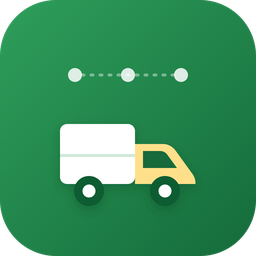
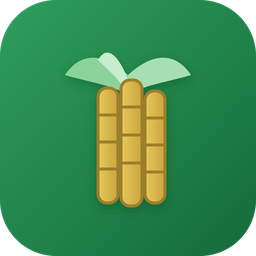
Reposition to agriculture: "Agrione - Nông nghiệp cây mía", by BSD
Đại: focus on sugarcane AGRICULTURE, not sales. Rename module, author=BSD, and
reframe listing around the Agrione sugarcane ERP ecosystem (Purchase, Inventory
[agri inputs / production materials / finished goods], Sales, HR, Accounting).
New sugarcane icon + cover; description clarifies this free module = raw-cane
multi-batch delivery-to-mill, with a CTA to the full solution.
(Functionality wording pending confirmation from the Sugar Agrione session.)

Changed region(s): [[0.2188, 0.1875, 0.7812, 0.8125]]

diff --git a/frm_sugar_sales/static/description/index.html b/frm_sugar_sales/static/description/index.html
@@ -1,66 +1,87 @@
 <section style="font-family:'Segoe UI',Roboto,Helvetica,Arial,sans-serif;color:#1f2d27;max-width:980px;margin:0 auto;line-height:1.6">
 
   <!-- ===== COVER (thumbnail) ===== -->
-  <img src="cover.png" class="img img-fluid" alt="Ban hang va Ke hoach giao hang nhieu dot" style="width:100%;height:auto;border-radius:16px;margin-bottom:28px"/>
+  <img src="cover.png" class="img img-fluid" alt="Agrione - Nong nghiep cay mia" style="width:100%;height:auto;border-radius:16px;margin-bottom:28px"/>
 
   <!-- ===== HERO ===== -->
   <div style="background:linear-gradient(135deg,#2e9e5b 0%,#146b3a 100%);border-radius:20px;padding:48px 40px;color:#fff;text-align:center">
-    <h1 style="margin:0 0 10px;font-size:34px;font-weight:800;color:#fff">B&#225;n h&#224;ng &amp; K&#7871; ho&#7841;ch giao h&#224;ng nhi&#7873;u &#273;&#7907;t</h1>
-    <p style="margin:0 auto;max-width:720px;font-size:18px;opacity:.95">
-      &#272;&#417;n h&#224;ng l&#7899;n nh&#432;ng <b>giao l&#224;m nhi&#7873;u &#273;&#7907;t</b> &#8212; m&#7895;i &#273;&#417;n c&#243; k&#7871; ho&#7841;ch giao (ng&#224;y &#183; s&#7889; l&#432;&#7907;ng
-      t&#7915;ng &#273;&#7907;t), m&#7895;i &#273;&#7907;t sinh phi&#7871;u xu&#7845;t kho th&#7853;t, theo d&#245;i &#273;&#227; giao / c&#242;n l&#7841;i. Module
-      <b>&#273;&#7897;c l&#7853;p</b>, ch&#7881; c&#7847;n Sale + Stock c&#7911;a Odoo.
+    <h1 style="margin:0 0 10px;font-size:34px;font-weight:800;color:#fff">Agrione &#8212; N&#244;ng nghi&#7879;p c&#226;y m&#237;a</h1>
+    <p style="margin:0 auto;max-width:740px;font-size:18px;opacity:.95">
+      Gi&#7843;i ph&#225;p <b>n&#244;ng nghi&#7879;p c&#226;y m&#237;a</b> tr&#234;n n&#7873;n Odoo: qu&#7843;n l&#253; n&#244;ng tr&#432;&#7901;ng, canh t&#225;c,
+      thu ho&#7841;ch v&#224; c&#7843; chu&#7895;i v&#7853;n h&#224;nh &#8212; <b>mua h&#224;ng, kho, b&#225;n h&#224;ng, nh&#226;n s&#7921;, k&#7871; to&#225;n</b>.
+      Module mi&#7877;n ph&#237; n&#224;y l&#224; ph&#7847;n <b>k&#7871; ho&#7841;ch giao m&#237;a nguy&#234;n li&#7879;u v&#7873; nh&#224; m&#225;y</b> trong v&#7909;.
     </p>
     <div style="margin-top:22px">
       <span style="display:inline-block;background:rgba(255,255,255,.18);border:1px solid rgba(255,255,255,.35);border-radius:999px;padding:7px 16px;margin:4px;font-size:14px">&#10004; Mi&#7877;n ph&#237; &amp; m&#227; ngu&#7891;n m&#7903; (LGPL-3)</span>
-      <span style="display:inline-block;background:rgba(255,255,255,.18);border:1px solid rgba(255,255,255,.35);border-radius:999px;padding:7px 16px;margin:4px;font-size:14px">&#10004; Ch&#7881; c&#7847;n <code style="color:#fff">Sale</code> + <code style="color:#fff">Stock</code></span>
-      <span style="display:inline-block;background:rgba(255,255,255,.18);border:1px solid rgba(255,255,255,.35);border-radius:999px;padding:7px 16px;margin:4px;font-size:14px">&#10004; Sinh phi&#7871;u kho t&#7921; &#273;&#7897;ng</span>
+      <span style="display:inline-block;background:rgba(255,255,255,.18);border:1px solid rgba(255,255,255,.35);border-radius:999px;padding:7px 16px;margin:4px;font-size:14px">&#10004; Chuy&#234;n ng&#224;nh m&#237;a Vi&#7879;t Nam</span>
+      <span style="display:inline-block;background:rgba(255,255,255,.18);border:1px solid rgba(255,255,255,.35);border-radius:999px;padding:7px 16px;margin:4px;font-size:14px">&#10004; C&#224;i &#273;&#7897;c l&#7853;p, d&#249;ng ngay</span>
     </div>
   </div>
 
-  <!-- ===== WHY ===== -->
+  <!-- ===== ECOSYSTEM ===== -->
   <div style="margin:40px 0 8px">
-    <h2 style="font-size:24px;font-weight:800;color:#146b3a;margin:0 0 8px">D&#224;nh cho ai?</h2>
-    <p style="font-size:16px;margin:0">
-      Doanh nghi&#7879;p b&#225;n <b>&#273;&#417;n l&#7899;n giao r&#7843;i nhi&#7873;u chuy&#7871;n</b> trong nhi&#7873;u tu&#7847;n &#8212; &#273;i&#7875;n h&#236;nh
-      ng&#224;nh &#273;&#432;&#7901;ng, n&#244;ng s&#7843;n, v&#7853;t li&#7879;u, ph&#226;n b&#243;n (b&#225;n 1.000 t&#7845;n nh&#432;ng giao l&#224;m nhi&#7873;u &#273;&#7907;t).
-      &#272;&#417;n b&#225;n ti&#234;u chu&#7849;n c&#7911;a Odoo ch&#7881; c&#243; m&#7897;t l&#7847;n giao; module n&#224;y th&#234;m <b>l&#7883;ch giao nhi&#7873;u &#273;&#7907;t</b>
-      ngay tr&#234;n &#273;&#417;n v&#224; t&#7921; sinh phi&#7871;u kho cho t&#7915;ng &#273;&#7907;t.
-    </p>
+    <h2 style="font-size:24px;font-weight:800;color:#146b3a;margin:0 0 6px">H&#7879; sinh th&#225;i ERP c&#226;y m&#237;a Agrione</h2>
+    <p style="font-size:16px;margin:0 0 18px">M&#7897;t n&#7873;n t&#7843;ng th&#7889;ng nh&#7845;t cho to&#224;n b&#7897; chu&#7895;i gi&#225; tr&#7883; c&#226;y m&#237;a &#8212; t&#7915; c&#225;nh &#273;&#7891;ng t&#7899;i nh&#224; m&#225;y.</p>
+  </div>
+  <div style="display:grid;grid-template-columns:repeat(2,1fr);gap:18px;margin:0 0 24px">
+    <div style="border:1px solid #e2ece6;border-radius:14px;padding:22px">
+      <div style="font-size:26px">&#128722;</div>
+      <h3 style="margin:8px 0 6px;font-size:18px;color:#146b3a">Mua h&#224;ng</h3>
+      <p style="margin:0;font-size:15px">V&#7853;t t&#432; n&#244;ng nghi&#7879;p (gi&#7889;ng, ph&#226;n, thu&#7889;c) v&#224; nguy&#234;n v&#7853;t li&#7879;u ph&#7909;c v&#7909; s&#7843;n xu&#7845;t.</p>
+    </div>
+    <div style="border:1px solid #e2ece6;border-radius:14px;padding:22px">
+      <div style="font-size:26px">&#127980;</div>
+      <h3 style="margin:8px 0 6px;font-size:18px;color:#146b3a">Kho</h3>
+      <p style="margin:0;font-size:15px">Qu&#7843;n l&#253; ba nh&#243;m: <b>v&#7853;t t&#432; n&#244;ng nghi&#7879;p</b> &#183; <b>v&#7853;t li&#7879;u s&#7843;n xu&#7845;t</b> &#183; <b>th&#224;nh ph&#7849;m</b> (&#273;&#432;&#7901;ng).</p>
+    </div>
+    <div style="border:1px solid #e2ece6;border-radius:14px;padding:22px">
+      <div style="font-size:26px">&#128666;</div>
+      <h3 style="margin:8px 0 6px;font-size:18px;color:#146b3a">B&#225;n h&#224;ng</h3>
+      <p style="margin:0;font-size:15px">Giao m&#237;a nguy&#234;n li&#7879;u / th&#224;nh ph&#7849;m <b>nhi&#7873;u &#273;&#7907;t theo v&#7909;</b> &#8212; ch&#237;nh l&#224; module mi&#7877;n ph&#237; n&#224;y.</p>
+    </div>
+    <div style="border:1px solid #e2ece6;border-radius:14px;padding:22px">
+      <div style="font-size:26px">&#128101;</div>
+      <h3 style="margin:8px 0 6px;font-size:18px;color:#146b3a">Nh&#226;n s&#7921;</h3>
+      <p style="margin:0;font-size:15px">Ch&#7845;m c&#244;ng, kho&#225;n vi&#7879;c n&#244;ng tr&#432;&#7901;ng theo khu / &#273;&#7897;i s&#7843;n xu&#7845;t.</p>
+    </div>
+    <div style="border:1px solid #e2ece6;border-radius:14px;padding:22px">
+      <div style="font-size:26px">&#128210;</div>
+      <h3 style="margin:8px 0 6px;font-size:18px;color:#146b3a">K&#7871; to&#225;n</h3>
+      <p style="margin:0;font-size:15px">H&#7841;ch to&#225;n m&#249;a v&#7909;, t&#7853;p h&#7907;p chi ph&#237; v&#224; t&#237;nh gi&#225; th&#224;nh theo n&#244;ng tr&#432;&#7901;ng.</p>
+    </div>
+    <div style="border:1px solid #e2ece6;border-radius:14px;padding:22px">
+      <div style="font-size:26px">&#127793;</div>
+      <h3 style="margin:8px 0 6px;font-size:18px;color:#146b3a">Canh t&#225;c &amp; thu ho&#7841;ch</h3>
+      <p style="margin:0;font-size:15px">N&#244;ng tr&#432;&#7901;ng &#183; gi&#7889;ng &#183; quy tr&#236;nh canh t&#225;c &#183; nh&#7853;t k&#253; &#273;&#7891;ng ru&#7897;ng &#183; thu ho&#7841;ch &amp; c&#226;n &#273;o.</p>
+    </div>
   </div>
 
-  <!-- ===== FEATURES ===== -->
-  <div style="display:grid;grid-template-columns:repeat(2,1fr);gap:18px;margin:24px 0">
-    <div style="border:1px solid #e2ece6;border-radius:14px;padding:22px">
-      <div style="font-size:26px">&#128467;&#65039;</div>
-      <h3 style="margin:8px 0 6px;font-size:18px;color:#146b3a">K&#7871; ho&#7841;ch giao theo &#273;&#7907;t</h3>
-      <p style="margin:0;font-size:15px">Th&#234;m c&#225;c &#273;&#7907;t giao (s&#7843;n ph&#7849;m &#183; s&#7889; l&#432;&#7907;ng &#183; ng&#224;y h&#7865;n) ngay trong m&#7897;t tab c&#7911;a &#273;&#417;n b&#225;n h&#224;ng.</p>
-    </div>
-    <div style="border:1px solid #e2ece6;border-radius:14px;padding:22px">
-      <div style="font-size:26px">&#128230;</div>
-      <h3 style="margin:8px 0 6px;font-size:18px;color:#146b3a">Sinh phi&#7871;u giao th&#7853;t</h3>
-      <p style="margin:0;font-size:15px">B&#7845;m <i>T&#7841;o phi&#7871;u giao</i> &#8594; phi&#7871;u xu&#7845;t kho &#273;&#250;ng s&#7889; l&#432;&#7907;ng &amp; ng&#224;y; ho&#7863;c <i>T&#7841;o t&#7845;t c&#7843;</i> m&#7897;t l&#7847;n.</p>
-    </div>
-    <div style="border:1px solid #e2ece6;border-radius:14px;padding:22px">
-      <div style="font-size:26px">&#128202;</div>
-      <h3 style="margin:8px 0 6px;font-size:18px;color:#146b3a">Theo d&#245;i ti&#7871;n &#273;&#7897;</h3>
-      <p style="margin:0;font-size:15px">&#272;&#227; giao / c&#242;n l&#7841;i / % ho&#224;n t&#7845;t, c&#7853;p nh&#7853;t theo phi&#7871;u kho th&#7921;c t&#7871; c&#7911;a t&#7915;ng &#273;&#7907;t.</p>
-    </div>
-    <div style="border:1px solid #e2ece6;border-radius:14px;padding:22px">
-      <div style="font-size:26px">&#129534;</div>
-      <h3 style="margin:8px 0 6px;font-size:18px;color:#146b3a">M&#7851;u in s&#7861;n</h3>
-      <p style="margin:0;font-size:15px">H&#7907;p &#273;&#7891;ng b&#225;n h&#224;ng &amp; Phi&#7871;u giao h&#224;ng in tr&#7921;c ti&#7871;p t&#7915; &#273;&#417;n &#8212; ti&#7871;ng Vi&#7879;t, chu&#7849;n nghi&#7879;p v&#7909;.</p>
-    </div>
-  </div>
-
-  <!-- ===== STATES ===== -->
+  <!-- ===== FREE MODULE ===== -->
   <div style="background:#f4faf6;border-radius:16px;padding:28px 32px;margin:28px 0">
-    <h2 style="font-size:22px;font-weight:800;color:#146b3a;margin:0 0 14px">Tr&#7841;ng th&#225;i t&#7915;ng &#273;&#7907;t giao</h2>
-    <p style="margin:0;font-size:16px">
-      <b>Ch&#7901; t&#7841;o phi&#7871;u</b> &#8594; <b>&#272;&#227; t&#7841;o phi&#7871;u</b> &#8594; <b>Giao m&#7897;t ph&#7847;n</b> &#8594; <b>&#272;&#227; giao &#273;&#7911;</b> &#8212;
-      t&#7921; c&#7853;p nh&#7853;t theo tr&#7841;ng th&#225;i phi&#7871;u xu&#7845;t kho. Kh&#244;ng s&#7917;a d&#7919; li&#7879;u Sale/Stock g&#7889;c, an to&#224;n
-      c&#224;i chung v&#7899;i m&#7885;i c&#7845;u h&#236;nh c&#243; s&#7861;n.
-    </p>
+    <h2 style="font-size:22px;font-weight:800;color:#146b3a;margin:0 0 6px">Module mi&#7877;n ph&#237; n&#224;y g&#7891;m</h2>
+    <p style="font-size:15px;margin:0 0 16px;color:#5a6b62">K&#7871; ho&#7841;ch giao m&#237;a nguy&#234;n li&#7879;u v&#7873; nh&#224; m&#225;y nhi&#7873;u &#273;&#7907;t &#8212; ch&#7881; c&#7847;n Sale + Stock c&#7911;a Odoo.</p>
+    <div style="display:grid;grid-template-columns:repeat(3,1fr);gap:14px">
+      <div style="background:#fff;border:1px solid #e2ece6;border-radius:12px;padding:18px">
+        <h3 style="margin:0 0 6px;font-size:16px;color:#146b3a">&#128467;&#65039; K&#7871; ho&#7841;ch giao theo &#273;&#7907;t</h3>
+        <p style="margin:0;font-size:14px">M&#7895;i &#273;&#417;n th&#234;m nhi&#7873;u &#273;&#7907;t giao (s&#7843;n ph&#7849;m &#183; s&#7889; l&#432;&#7907;ng &#183; ng&#224;y) &#8212; v&#7909; m&#237;a giao l&#224;m nhi&#7873;u chuy&#7871;n trong nhi&#7873;u tu&#7847;n.</p>
+      </div>
+      <div style="background:#fff;border:1px solid #e2ece6;border-radius:12px;padding:18px">
+        <h3 style="margin:0 0 6px;font-size:16px;color:#146b3a">&#128230; Sinh phi&#7871;u kho t&#7921; &#273;&#7897;ng</h3>
+        <p style="margin:0;font-size:14px">M&#7895;i &#273;&#7907;t t&#7841;o phi&#7871;u xu&#7845;t kho th&#7853;t, &#273;&#250;ng s&#7889; l&#432;&#7907;ng &amp; ng&#224;y.</p>
+      </div>
+      <div style="background:#fff;border:1px solid #e2ece6;border-radius:12px;padding:18px">
+        <h3 style="margin:0 0 6px;font-size:16px;color:#146b3a">&#128202; Theo d&#245;i ti&#7871;n &#273;&#7897;</h3>
+        <p style="margin:0;font-size:14px">&#272;&#227; giao / c&#242;n l&#7841;i / % ho&#224;n t&#7845;t theo phi&#7871;u kho th&#7921;c t&#7871;.</p>
+      </div>
+    </div>
+  </div>
+
+  <!-- ===== FULL SOLUTION CTA ===== -->
+  <div style="border:2px dashed #b7d8c4;border-radius:16px;padding:26px 30px;margin:28px 0;text-align:center">
+    <h2 style="font-size:20px;font-weight:800;color:#146b3a;margin:0 0 8px">C&#7847;n b&#7897; gi&#7843;i ph&#225;p m&#237;a &#273;&#7847;y &#273;&#7911;?</h2>
+    <p style="margin:0 0 6px;font-size:15px">Qu&#7843;n l&#253; n&#244;ng tr&#432;&#7901;ng/khu/&#273;&#7897;i, gi&#7889;ng &amp; canh t&#225;c, thu ho&#7841;ch &amp; &#273;&#7897;i &#273;&#7889;n, &#273;&#7847;u t&#432; n&#244;ng d&#226;n v&#7879; tinh,
+      truy xu&#7845;t, nh&#224; m&#225;y &#273;&#432;&#7901;ng... &#8212; tri&#7875;n khai theo y&#234;u c&#7847;u.</p>
+    <p style="margin:0;font-size:15px"><b>Li&#234;n h&#7879; Agrione:</b> <a href="https://agrione.vn" style="color:#146b3a;font-weight:700;text-decoration:none">agrione.vn</a></p>
   </div>
 
   <!-- ===== TECH ===== -->
@@ -68,7 +89,7 @@
     <h2 style="font-size:22px;font-weight:800;color:#146b3a;margin:0 0 12px">Th&#244;ng tin k&#7929; thu&#7853;t</h2>
     <table style="width:100%;border-collapse:collapse;font-size:15px">
       <tr style="border-bottom:1px solid #e2ece6"><td style="padding:10px 8px;width:220px;color:#5a6b62">Phi&#234;n b&#7843;n Odoo</td><td style="padding:10px 8px"><b>19.0</b> (Community &amp; Enterprise)</td></tr>
-      <tr style="border-bottom:1px solid #e2ece6"><td style="padding:10px 8px;color:#5a6b62">Ph&#7909; thu&#7897;c</td><td style="padding:10px 8px"><code>sale_management</code>, <code>stock</code> &#8212; chu&#7849;n Odoo, kh&#244;ng c&#7847;n module ngo&#224;i</td></tr>
+      <tr style="border-bottom:1px solid #e2ece6"><td style="padding:10px 8px;color:#5a6b62">Ph&#7909; thu&#7897;c</td><td style="padding:10px 8px"><code>sale_management</code>, <code>stock</code> &#8212; chu&#7849;n Odoo</td></tr>
       <tr style="border-bottom:1px solid #e2ece6"><td style="padding:10px 8px;color:#5a6b62">Gi&#7845;y ph&#233;p</td><td style="padding:10px 8px"><b>LGPL-3</b></td></tr>
       <tr><td style="padding:10px 8px;color:#5a6b62">Model ch&#237;nh</td><td style="padding:10px 8px"><code>frm.sale.delivery.schedule</code>, m&#7903; r&#7897;ng <code>sale.order</code></td></tr>
     </table>
@@ -76,9 +97,9 @@
 
   <!-- ===== ABOUT ===== -->
   <div style="border-top:2px solid #e2ece6;margin-top:32px;padding-top:24px;text-align:center">
-    <h3 style="font-size:18px;color:#146b3a;margin:0 0 6px">Ph&#225;t tri&#7875;n b&#7903;i Agrione (BSD)</h3>
+    <h3 style="font-size:18px;color:#146b3a;margin:0 0 6px">Ph&#225;t tri&#7875;n b&#7903;i BSD</h3>
     <p style="margin:0;font-size:15px;color:#5a6b62">
-      Gi&#7843;i ph&#225;p Odoo cho doanh nghi&#7879;p Vi&#7879;t Nam &#8212; n&#244;ng nghi&#7879;p, b&#225;n h&#224;ng, chu&#7895;i cung &#7913;ng, ERP ng&#224;nh.
+      Agrione &#8212; n&#7873;n t&#7843;ng ERP n&#244;ng nghi&#7879;p Vi&#7879;t Nam (m&#237;a, l&#250;a, s&#7847;u ri&#234;ng, d&#7915;a, c&#224; ph&#234;, chu&#7889;i...).
       <br><a href="https://agrione.vn" style="color:#146b3a;font-weight:700;text-decoration:none">agrione.vn</a>
       &nbsp;&#183;&nbsp;
       <a href="https://bsdinsight.com" style="color:#146b3a;font-weight:700;text-decoration:none">bsdinsight.com</a>

diff --git a/frm_sugar_sales/__manifest__.py b/frm_sugar_sales/__manifest__.py
@@ -1,32 +1,40 @@
 # -*- coding: utf-8 -*-
 {
-    'name': 'Agrione – Bán hàng & Kế hoạch giao hàng',
-    'version': '19.0.2.0.0',
-    'summary': 'Đơn hàng lớn giao nhiều đợt: mỗi đơn có kế hoạch giao (ngày + số '
-               'lượng từng đợt), mỗi đợt sinh phiếu giao thật + theo dõi đã giao / '
-               'còn lại. Module ĐỘC LẬP — chỉ cần Sale + Stock.',
+    'name': 'Agrione - Nông nghiệp cây mía',
+    'version': '19.0.2.1.0',
+    'summary': 'Nông nghiệp cây mía Agrione — module miễn phí lập kế hoạch giao mía '
+               'nguyên liệu về nhà máy nhiều đợt trong vụ (nền Sale + Stock). Thuộc hệ '
+               'sinh thái ERP mía: mua hàng, kho (vật tư nông nghiệp / vật liệu sản xuất '
+               '/ thành phẩm), bán hàng, nhân sự, kế toán.',
     'description': """
-Agrione – Bán hàng & Kế hoạch giao hàng
-=======================================
-Module **độc lập** (chỉ phụ thuộc Sale + Stock của Odoo) cho bài toán bán hàng
-đơn lớn nhưng **giao nhiều đợt** — điển hình ngành đường (bán 1.000 tấn nhưng
-giao làm nhiều chuyến trong nhiều tuần).
+Agrione - Nông nghiệp cây mía
+=============================
+Giải pháp **nông nghiệp cây mía** của Agrione trên nền Odoo. Module miễn phí này là
+phần **kế hoạch giao mía nguyên liệu về nhà máy nhiều đợt** trong vụ thu hoạch —
+một mắt xích của hệ sinh thái ERP mía Agrione.
 
-* **Kế hoạch giao hàng trên từng đơn** — thêm các đợt giao (sản phẩm · số lượng
-  · ngày hẹn) ngay trong tab của đơn bán hàng.
-* **Sinh phiếu giao thật cho từng đợt** — bấm *Tạo phiếu giao* → phiếu xuất kho
-  → khách, đúng số lượng & ngày; hoặc *Tạo tất cả phiếu giao* một lần.
-* **Theo dõi tiến độ** — đã giao / còn lại / % hoàn tất, cập nhật theo phiếu kho
-  thực tế; mỗi đợt có trạng thái Chờ tạo phiếu / Đã tạo phiếu / Giao một phần /
-  Đã giao đủ.
+Hệ sinh thái ERP mía Agrione
+----------------------------
+* **Mua hàng** — vật tư nông nghiệp (giống, phân, thuốc) và nguyên vật liệu sản xuất.
+* **Kho** — vật tư nông nghiệp · vật liệu sản xuất · thành phẩm (đường).
+* **Bán hàng** — giao mía nguyên liệu / thành phẩm nhiều đợt theo vụ.
+* **Nhân sự** — chấm công, khoán việc nông trường.
+* **Kế toán** — hạch toán mùa vụ, giá thành.
 
-Không phụ thuộc module nào khác của Agrione — dùng chung nền Odoo Community.
+Module miễn phí này gồm
+-----------------------
+* **Kế hoạch giao theo đợt** — thêm các đợt giao (sản phẩm · số lượng · ngày) ngay
+  trên đơn; điển hình vụ mía: giao mía về nhà máy làm nhiều chuyến trong nhiều tuần.
+* **Sinh phiếu giao thật cho từng đợt** — tạo phiếu xuất kho đúng số lượng & ngày.
+* **Theo dõi tiến độ** — đã giao / còn lại / % hoàn tất theo phiếu kho thực tế.
+
+Chỉ phụ thuộc Sale + Stock của Odoo — cài độc lập, dùng ngay.
 """,
     'category': 'Sales',
-    'author': 'Agrione (BSD)',
+    'author': 'BSD',
     'license': 'LGPL-3',
     'website': 'https://agrione.vn',
-    'maintainer': 'Agrione (BSD)',
+    'maintainer': 'BSD',
     'images': ['static/description/cover.png'],
     'depends': ['sale_management', 'stock'],
     'data': [

diff --git a/README.md b/README.md
@@ -1,19 +1,23 @@
-# Agrione – Bán hàng & Kế hoạch giao hàng nhiều đợt (`frm_sugar_sales`)
+# Agrione - Nông nghiệp cây mía (`frm_sugar_sales`)
 
-Module Odoo **19.0** cho bài toán bán **đơn hàng lớn nhưng giao làm nhiều đợt** —
-điển hình ngành đường, nông sản, vật liệu, phân bón (bán 1.000 tấn, giao rải nhiều
-chuyến trong nhiều tuần).
+Giải pháp **nông nghiệp cây mía** của Agrione trên nền **Odoo 19.0**. Module **miễn phí**
+này là phần **kế hoạch giao mía nguyên liệu về nhà máy nhiều đợt** trong vụ — một mắt xích
+của hệ sinh thái ERP cây mía Agrione.
 
 [![License: LGPL-3](https://img.shields.io/badge/license-LGPL--3-blue.svg)](LICENSE)
 ![Odoo 19.0](https://img.shields.io/badge/Odoo-19.0-714B67.svg)
 
-## Tính năng
+## Hệ sinh thái ERP cây mía Agrione
 
-- **Kế hoạch giao theo đợt** — thêm các đợt giao (sản phẩm · số lượng · ngày hẹn) ngay trong một tab của đơn bán hàng.
-- **Sinh phiếu giao thật** — *Tạo phiếu giao* → phiếu xuất kho đúng số lượng & ngày; hoặc *Tạo tất cả* một lần.
-- **Theo dõi tiến độ** — đã giao / còn lại / % hoàn tất, cập nhật theo phiếu kho thực tế.
-- **Trạng thái từng đợt** — Chờ tạo phiếu → Đã tạo phiếu → Giao một phần → Đã giao đủ.
-- **Mẫu in** — Hợp đồng bán hàng & Phiếu giao hàng (tiếng Việt).
+Mua hàng · Kho (vật tư nông nghiệp / vật liệu sản xuất / thành phẩm) · Bán hàng ·
+Nhân sự · Kế toán · Canh tác & thu hoạch. Bộ giải pháp đầy đủ triển khai theo yêu cầu —
+liên hệ [agrione.vn](https://agrione.vn).
+
+## Module miễn phí này gồm
+
+- **Kế hoạch giao theo đợt** — mỗi đơn thêm nhiều đợt giao (sản phẩm · số lượng · ngày); vụ mía giao làm nhiều chuyến trong nhiều tuần.
+- **Sinh phiếu kho tự động** — mỗi đợt tạo phiếu xuất kho thật, đúng số lượng & ngày.
+- **Theo dõi tiến độ** — đã giao / còn lại / % hoàn tất theo phiếu kho thực tế.
 
 ## Cài đặt
 
@@ -21,7 +25,7 @@ chuyến trong nhiều tuần).
 odoo -i frm_sugar_sales -d <database>
 ```
 
-**Module độc lập** — chỉ phụ thuộc `sale_management` + `stock` (chuẩn Odoo), không cần module ngoài nào.
+Chỉ phụ thuộc `sale_management` + `stock` (chuẩn Odoo) — cài độc lập, dùng ngay.
 
 ## Kỹ thuật
 
@@ -38,4 +42,4 @@ LGPL-3 — xem [LICENSE](LICENSE).
 
 ---
 
-Phát triển bởi **Agrione (BSD)** · [agrione.vn](https://agrione.vn) · [bsdinsight.com](https://bsdinsight.com)
+Phát triển bởi **BSD** · [agrione.vn](https://agrione.vn) · [bsdinsight.com](https://bsdinsight.com)

diff --git a/frm_sugar_sales/README.md b/frm_sugar_sales/README.md
@@ -1,19 +1,23 @@
-# Agrione – Bán hàng & Kế hoạch giao hàng nhiều đợt (`frm_sugar_sales`)
+# Agrione - Nông nghiệp cây mía (`frm_sugar_sales`)
 
-Module Odoo **19.0** cho bài toán bán **đơn hàng lớn nhưng giao làm nhiều đợt** —
-điển hình ngành đường, nông sản, vật liệu, phân bón (bán 1.000 tấn, giao rải nhiều
-chuyến trong nhiều tuần).
+Giải pháp **nông nghiệp cây mía** của Agrione trên nền **Odoo 19.0**. Module **miễn phí**
+này là phần **kế hoạch giao mía nguyên liệu về nhà máy nhiều đợt** trong vụ — một mắt xích
+của hệ sinh thái ERP cây mía Agrione.
 
 [![License: LGPL-3](https://img.shields.io/badge/license-LGPL--3-blue.svg)](LICENSE)
 ![Odoo 19.0](https://img.shields.io/badge/Odoo-19.0-714B67.svg)
 
-## Tính năng
+## Hệ sinh thái ERP cây mía Agrione
 
-- **Kế hoạch giao theo đợt** — thêm các đợt giao (sản phẩm · số lượng · ngày hẹn) ngay trong một tab của đơn bán hàng.
-- **Sinh phiếu giao thật** — *Tạo phiếu giao* → phiếu xuất kho đúng số lượng & ngày; hoặc *Tạo tất cả* một lần.
-- **Theo dõi tiến độ** — đã giao / còn lại / % hoàn tất, cập nhật theo phiếu kho thực tế.
-- **Trạng thái từng đợt** — Chờ tạo phiếu → Đã tạo phiếu → Giao một phần → Đã giao đủ.
-- **Mẫu in** — Hợp đồng bán hàng & Phiếu giao hàng (tiếng Việt).
+Mua hàng · Kho (vật tư nông nghiệp / vật liệu sản xuất / thành phẩm) · Bán hàng ·
+Nhân sự · Kế toán · Canh tác & thu hoạch. Bộ giải pháp đầy đủ triển khai theo yêu cầu —
+liên hệ [agrione.vn](https://agrione.vn).
+
+## Module miễn phí này gồm
+
+- **Kế hoạch giao theo đợt** — mỗi đơn thêm nhiều đợt giao (sản phẩm · số lượng · ngày); vụ mía giao làm nhiều chuyến trong nhiều tuần.
+- **Sinh phiếu kho tự động** — mỗi đợt tạo phiếu xuất kho thật, đúng số lượng & ngày.
+- **Theo dõi tiến độ** — đã giao / còn lại / % hoàn tất theo phiếu kho thực tế.
 
 ## Cài đặt
 
@@ -21,7 +25,7 @@ chuyến trong nhiều tuần).
 odoo -i frm_sugar_sales -d <database>
 ```
 
-**Module độc lập** — chỉ phụ thuộc `sale_management` + `stock` (chuẩn Odoo), không cần module ngoài nào.
+Chỉ phụ thuộc `sale_management` + `stock` (chuẩn Odoo) — cài độc lập, dùng ngay.
 
 ## Kỹ thuật
 
@@ -38,4 +42,4 @@ LGPL-3 — xem [LICENSE](LICENSE).
 
 ---
 
-Phát triển bởi **Agrione (BSD)** · [agrione.vn](https://agrione.vn) · [bsdinsight.com](https://bsdinsight.com)
+Phát triển bởi **BSD** · [agrione.vn](https://agrione.vn) · [bsdinsight.com](https://bsdinsight.com)